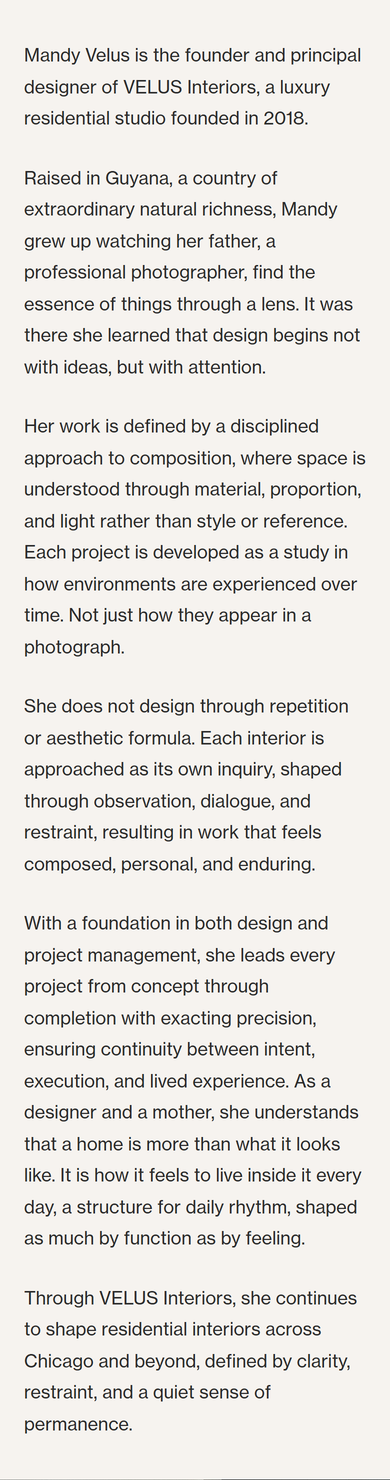
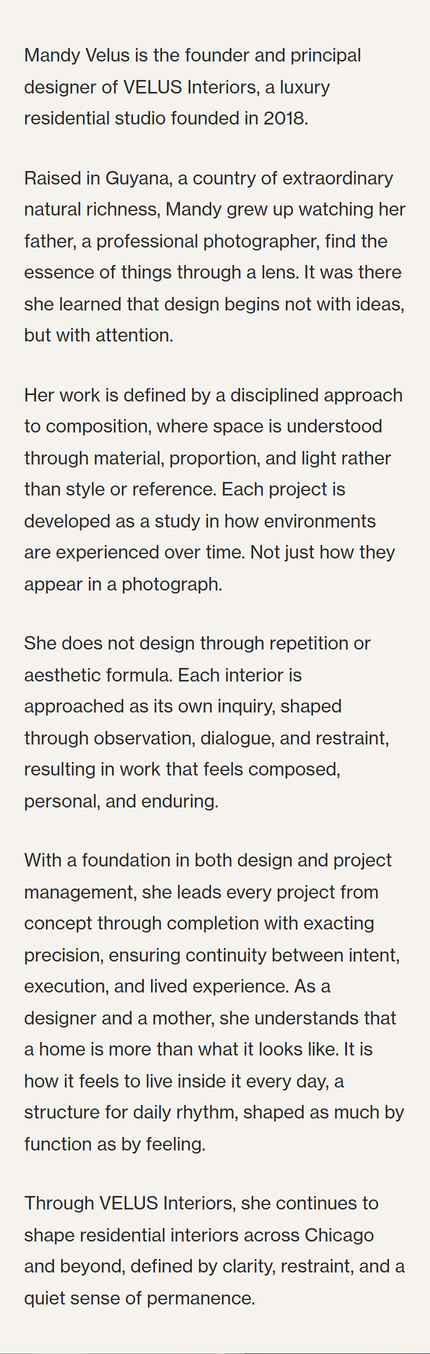
Mandy VeLUS: iterate v5 typography until each section visually matches her phone screenshots
Per-section adjustments (all mobile, viewport ~430 CSS px):
- Editorial (A study in restraint): swap image to IMG_4286_cropped (clean photo crop, was using a screenshot file containing duplicate text), force edge-to-edge on mobile, h3 22→24px with .01em letter-spacing, body 20→15px with .012em letter-spacing, padding 40→52px each side. Title now wraps at 2 lines and body at 3 lines per paragraph, matching her reference.
- Our Work: title h2 34→30px, body lede 20→17px with .01em letter-spacing, line-height 1.7→1.55. CTA 14→13px. Paragraph wraps now match her 4-paragraph layout.
- Our Process: titles 30→26px, body 19→16px, numbers 13px with .04em letter-spacing (was .32em causing "0 1" rendering). "Procurement and Coordination" now fits on one line.
- Reflection: blockquote 22→23px, padding 40→54px each side. Quote wraps to 4 lines centered.
- Velus Statement: h1 34→28px, white-space:nowrap so "VELUS INTERIORS" fits on one line.
- Service Dropdown: svc-num letter-spacing .2em→.04em so "01" renders tight.
- Fix em-dash in Valmont alt text per no-em-dash rule.

Capture tooling:
- VW env var on qa helpers; default to 430 (iPhone Pro Max width)
- Sharp extract math now respects VW

Changed region(s): [[0.0615, 0.031, 0.9538, 0.9926], [0.9231, 0.9306, 0.9538, 0.9616]]

diff --git a/Mandy_VeLUS_Design/v5.html b/Mandy_VeLUS_Design/v5.html
@@ -179,15 +179,15 @@ section.editorial .eyebrow{color:#2A1E1A;opacity:.75}
 section.editorial h3{font-family:var(--serif);font-size:clamp(24px,2.4vw,36px);font-weight:400;margin-top:22px;color:#2A1E1A;line-height:1.3}
 section.editorial p{margin-top:24px;font-size:clamp(8.4px,1.32vw,20.4px);line-height:1.85;color:#2A1E1A;opacity:.9;font-weight:300}
 section.editorial .img{align-self:stretch;width:100%;height:auto;margin:-120px 0;background-size:cover;background-position:center}
-@media(max-width:860px){section.editorial{padding:60px 40px}section.editorial .wrap{grid-template-columns:1fr;gap:50px}section.editorial h3{margin-top:0}section.editorial .img{aspect-ratio:4/5;align-self:auto;height:auto;margin:0 -30px;width:calc(100% + 60px)}}
+@media(max-width:860px){section.editorial{padding:60px 52px}section.editorial .wrap{grid-template-columns:1fr;gap:50px}section.editorial h3{margin-top:0}section.editorial .img{aspect-ratio:4/5;align-self:auto;height:auto;margin:0 -52px;width:calc(100% + 104px)}}
 
 /* TESTIMONIES */
 section.testimonies-section{padding:60px 0;background:#F6F3EF}
 .testimonies-head{max-width:720px;margin:0 auto 48px;padding:0 40px;text-align:center}
 .testimonies-head h2{font-family:var(--serif);font-weight:400;font-size:34px;letter-spacing:.18em;text-transform:uppercase;color:#1A1A1A;margin:0 0 20px;line-height:1.1}
 .testimonies-head .rule{margin:0 auto;width:48px;height:1px;background:#D0D0D0;border:0}
-.testimonies{max-width:640px;margin:0 auto;padding:0 40px;text-align:center}
-.testimonies blockquote{font-family:var(--serif);font-weight:400;font-size:22px;line-height:1.6;color:#1A1A1A;text-wrap:balance}
+.testimonies{max-width:640px;margin:0 auto;padding:0 54px;text-align:center}
+.testimonies blockquote{font-family:var(--serif);font-weight:400;font-size:23px;line-height:1.55;color:#1A1A1A}
 .testimonies .t-short,.testimonies .t-full{display:grid;transition:grid-template-rows .6s cubic-bezier(0.22,1,0.36,1),opacity .45s ease}
 .testimonies .t-short>.t-inner,.testimonies .t-full>.t-inner{overflow:hidden;min-height:0}
 .testimonies .t-short{grid-template-rows:1fr;opacity:1}
@@ -322,7 +322,7 @@ section.monogram + .svc-list{margin-top:0}
 .svc-item::before{content:"";position:absolute;top:0;left:17.5%;right:17.5%;height:1px;background:#D0D0D0}
 .svc-item:last-child::after{content:"";position:absolute;bottom:0;left:17.5%;right:17.5%;height:1px;background:#D0D0D0}
 .svc-trigger{width:100%;text-align:left;padding:32px 0;font-family:var(--serif);font-size:26px;font-weight:400;letter-spacing:.02em;color:var(--ink);cursor:pointer;display:flex;align-items:baseline;gap:28px}
-.svc-num{font-family:var(--body);font-size:14px;letter-spacing:.2em;opacity:.5;font-weight:400;flex-shrink:0}
+.svc-num{font-family:var(--body);font-size:14px;letter-spacing:.04em;opacity:.45;font-weight:400;flex-shrink:0}
 .svc-trigger::after{content:"+";margin-left:auto;font-family:var(--body);font-size:18px;font-weight:300;opacity:.55;line-height:1;transition:transform .4s ease,opacity .3s ease,content 0s}
 .svc-trigger:hover::after{opacity:.9}
 .svc-item.open .svc-trigger::after{content:"\2212";opacity:.9}
@@ -352,7 +352,7 @@ body.locked{overflow:hidden}
   .svc-head h1,
   .work-section .section-head .lede{white-space:normal}
   section.statement{text-align:left}
-  section.statement h1{font-size:34px;text-align:left;padding:0 24px;letter-spacing:.1em}
+  section.statement h1{font-size:28px;text-align:left;padding:0 24px;letter-spacing:.04em;white-space:nowrap}
   section.statement .body{max-width:600px;width:auto;margin:28px auto 0;padding:0 24px;text-align:left;font-size:20px;line-height:1.65;color:#2B2B2B}
   section.statement .body p{padding:0}
   section.statement .body p+p{margin-top:20px}
@@ -367,15 +367,16 @@ body.locked{overflow:hidden}
   .mbr{display:initial}
   .svc-body,
   .about-exit .s{font-size:14px}
-  .work-section .section-head .lede{font-size:20px;line-height:1.7;text-align:left;color:#2B2B2B;margin-top:24px;padding:0;max-width:none}
-  .work-section .section-foot .cta{font-size:15px;letter-spacing:.18em}
-  .p-num{font-size:15px;letter-spacing:.04em;margin-bottom:18px}
-  .p-title{font-size:30px;letter-spacing:.02em;margin-bottom:8px}
-  .p-desc{font-size:19px;line-height:1.6}
+  .work-section .section-head .lede{font-size:17px;line-height:1.55;text-align:left;color:#2B2B2B;margin-top:18px;padding:0;max-width:none;letter-spacing:.01em}
+  .work-section .section-head h2{font-size:30px;letter-spacing:.04em;margin:0 0 4px}
+  .work-section .section-foot .cta{font-size:13px;letter-spacing:.22em}
+  .p-num{font-size:13px;letter-spacing:.04em;margin-bottom:14px;opacity:.4}
+  .p-title{font-size:26px;letter-spacing:.005em;margin-bottom:8px;line-height:1.2}
+  .p-desc{font-size:16px;line-height:1.55}
   .svc-statement p{font-size:19px}
   .svc-head h1{padding:0 16px}
-  section.editorial h3{font-size:34px}
-  section.editorial p{font-size:20px;line-height:1.65}
+  section.editorial h3{font-size:24px;line-height:1.22;letter-spacing:.01em}
+  section.editorial p{font-size:15px;line-height:1.55;letter-spacing:.012em}
 
   /* SYMMETRIC SECTION PADDING ON MOBILE */
   section.monogram{padding:40px 24px 40px}
@@ -482,7 +483,7 @@ body.locked{overflow:hidden}
       <div class="work-img fu" data-project="7">
         <picture>
           <source media="(min-width:769px)" srcset="collectionsphotos/valmont-1.jpeg" />
-          <img src="collectionsphotos/valmont-1.jpeg" alt="Valmont Residence — Palm Beach, Florida" loading="lazy" />
+          <img src="collectionsphotos/valmont-1.jpeg" alt="Valmont Residence, Palm Beach, Florida" loading="lazy" />
         </picture>
       </div>
       <div class="work-img fu d1" data-project="5">
@@ -502,7 +503,7 @@ body.locked{overflow:hidden}
         <p class="fu d2">VELUS Interiors is committed to a disciplined approach to design, where intention guides every decision and excess is consistently removed in pursuit of clarity.</p>
         <p class="fu d2">The studio's work is grounded in three principles: spatial integrity, material precision, and considered restraint. This is not decoration. It is composition.</p>
       </div>
-      <div class="img fu d2" style="background-image:url('https://assets.cdn.filesafe.space/dYpRMKt41LMBrYEUoeLG/media/2e8700a6-2bba-4e34-8328-b594ddd6a0fb.jpeg')"></div>
+      <div class="img fu d2" style="background-image:url('collectionsphotos/IMG_4286_cropped.jpeg')"></div>
     </div>
   </section>
 

diff --git a/.claude/qa-mandy-batch-430.js b/.claude/qa-mandy-batch-430.js
@@ -1,0 +1,30 @@
+// Batch re-capture every Mandy comparison section at 430px viewport
+// (iPhone 14 Pro Max width) so wrapping matches her phone screenshots.
+const { spawnSync } = require('child_process');
+const path = require('path');
+
+const ROOT = path.resolve(__dirname, '..', 'Mandy_VeLUS_Design', 'comparisons');
+
+const TARGETS = [
+  // [selector, out-file, page-id]
+  ['section.testimonies-section', 'reflection-2026-04-23/image-one-real-mobile.png', 'page-home'],
+  ['section.statement', 'statement-2026-04-24/image-two-real-mobile.png', 'page-home'],
+  ['section.editorial', 'editorial-2026-04-24/image-three-real-mobile.png', 'page-home'],
+  ['.about-bio', 'about-2026-04-24/image-four-real-mobile.png', 'page-about'],
+  ['section.work-section', 'our-work-2026-04-24/image-five-real-mobile.png', 'page-home'],
+  ['.process-wrap', 'process-2026-04-24/image-six-real-mobile.png', 'page-services'],
+  ['.svc-list', 'service-dropdown-2026-04-24/image-seven-real-mobile.png', 'page-services'],
+  ['footer#site-footer', 'footer-2026-04-24/image-ten-real-mobile.png', 'page-home'],
+];
+
+for (const [sel, file, pg] of TARGETS) {
+  const out = path.join(ROOT, file);
+  console.log(`\n--- ${file} ---`);
+  const r = spawnSync('node', ['qa-mandy-section.js', sel, out, pg], {
+    cwd: __dirname,
+    env: { ...process.env, VW: '430' },
+    encoding: 'utf8',
+  });
+  process.stdout.write(r.stdout || '');
+  if (r.stderr) process.stderr.write(r.stderr);
+}

diff --git a/.claude/qa-debug-editorial.js b/.claude/qa-debug-editorial.js
@@ -1,0 +1,28 @@
+const puppeteer = require('puppeteer');
+const URL = 'file:///F:/GitHub/Websites/Mandy_VeLUS_Design/v5.html';
+(async () => {
+  const browser = await puppeteer.launch({ headless: 'new' });
+  const page = await browser.newPage();
+  await page.setViewport({ width: 430, height: 1400, deviceScaleFactor: 1 });
+  await page.goto(URL, { waitUntil: 'networkidle0' });
+  await new Promise(r => setTimeout(r, 700));
+  await page.evaluate(() => {
+    document.querySelectorAll('.fu').forEach(e => e.classList.add('in'));
+    const e = document.getElementById('entry'); if(e) e.style.display='none';
+  });
+  const info = await page.evaluate(() => {
+    // Grab every element near doc-y where the duplicate appears (~400-700px in viewport)
+    const editorial = document.querySelector('section.editorial');
+    const docY = editorial.getBoundingClientRect().top + window.scrollY;
+    const sections = Array.from(document.querySelectorAll('section, footer, header, main')).map(s => ({
+      tag: s.tagName,
+      cls: s.className || '',
+      docY: Math.round(s.getBoundingClientRect().top + window.scrollY),
+      h: Math.round(s.getBoundingClientRect().height),
+      visible: getComputedStyle(s).display !== 'none' && getComputedStyle(s).visibility !== 'hidden'
+    })).filter(s => s.visible && s.docY >= 0);
+    return { editorialDocY: docY, sections };
+  });
+  console.log(JSON.stringify(info, null, 2));
+  await browser.close();
+})();

diff --git a/.claude/qa-debug-fullsection.js b/.claude/qa-debug-fullsection.js
@@ -1,0 +1,20 @@
+const puppeteer = require('puppeteer');
+const URL = 'file:///F:/GitHub/Websites/Mandy_VeLUS_Design/v5.html';
+(async () => {
+  const browser = await puppeteer.launch({ headless: 'new' });
+  const page = await browser.newPage();
+  await page.setViewport({ width: 430, height: 1400, deviceScaleFactor: 1 });
+  await page.goto(URL, { waitUntil: 'networkidle0' });
+  await new Promise(r => setTimeout(r, 700));
+  await page.evaluate(() => {
+    document.querySelectorAll('.fu').forEach(e => e.classList.add('in'));
+    const e = document.getElementById('entry'); if(e) e.style.display='none';
+    const home = document.getElementById('page-home'); if(home) home.classList.add('active');
+  });
+  await new Promise(r => setTimeout(r, 400));
+  // Full page screenshot, no extract
+  await page.screenshot({ path: 'F:/GitHub/Websites/.claude/screenshots/debug-fullpage.png', fullPage: true });
+  const dims = await page.evaluate(() => ({ docH: document.body.scrollHeight, vpH: window.innerHeight }));
+  console.log('docH', dims.docH, 'vpH', dims.vpH);
+  await browser.close();
+})();

diff --git a/.claude/qa-debug-fullpage.js b/.claude/qa-debug-fullpage.js
@@ -1,0 +1,20 @@
+const puppeteer = require('puppeteer');
+const URL = 'file:///F:/GitHub/Websites/Mandy_VeLUS_Design/v5.html';
+(async () => {
+  const browser = await puppeteer.launch({ headless: 'new' });
+  const page = await browser.newPage();
+  await page.setViewport({ width: 430, height: 844, deviceScaleFactor: 1 });
+  await page.goto(URL, { waitUntil: 'networkidle0' });
+  await new Promise(r => setTimeout(r, 700));
+  await page.evaluate(() => {
+    document.querySelectorAll('.fu').forEach(e => e.classList.add('in'));
+    const e = document.getElementById('entry'); if(e) e.style.display='none';
+    const home = document.getElementById('page-home'); if(home) home.classList.add('active');
+    document.querySelector('section.editorial').scrollIntoView({block:'start'});
+    window.scrollBy(0, -100);
+  });
+  await new Promise(r => setTimeout(r, 400));
+  await page.screenshot({ path: 'F:/GitHub/Websites/.claude/screenshots/debug-editorial.png', fullPage: false });
+  console.log('saved');
+  await browser.close();
+})();

diff --git a/.claude/qa-mandy-section.js b/.claude/qa-mandy-section.js
@@ -18,7 +18,8 @@ if (!SELECTOR || !OUT_PATH) {
 (async () => {
   const browser = await puppeteer.launch({ headless: 'new' });
   const page = await browser.newPage();
-  await page.setViewport({ width: 390, height: 1400, deviceScaleFactor: 2 });
+  const VW = parseInt(process.env.VW || '430', 10);
+  await page.setViewport({ width: VW, height: 1400, deviceScaleFactor: 2 });
   await page.goto(URL, { waitUntil: 'networkidle0' });
   await new Promise(r => setTimeout(r, 700));
 
@@ -69,13 +70,13 @@ if (!SELECTOR || !OUT_PATH) {
     .extract({
       left: 0,
       top: Math.round(rect.top * 2),
-      width: 390 * 2,
+      width: VW * 2,
       height: Math.ceil(rect.height * 2)
     })
-    .resize({ width: 390 })
+    .resize({ width: VW })
     .toFile(OUT_PATH);
   fs.unlinkSync(fullPath);
 
-  console.log(`saved ${path.basename(OUT_PATH)} (390 x ${Math.ceil(rect.height)})`);
+  console.log(`saved ${path.basename(OUT_PATH)} (${VW} x ${Math.ceil(rect.height)})`);
   await browser.close();
 })();

diff --git a/.claude/qa-mandy-entry.js b/.claude/qa-mandy-entry.js
@@ -10,7 +10,8 @@ if (!fs.existsSync(OUT_DIR)) fs.mkdirSync(OUT_DIR, { recursive: true });
 (async () => {
   const browser = await puppeteer.launch({ headless: 'new' });
   const page = await browser.newPage();
-  await page.setViewport({ width: 390, height: 844, deviceScaleFactor: 2 });
+  const VW = parseInt(process.env.VW || '430', 10);
+  await page.setViewport({ width: VW, height: 844, deviceScaleFactor: 2 });
   await page.goto(URL, { waitUntil: 'domcontentloaded' });
   // Wait for SVG fade-in (.in class added at ~120ms)
   await new Promise(r => setTimeout(r, 800));

diff --git a/.claude/qa-mandy-viewer.js b/.claude/qa-mandy-viewer.js
@@ -10,7 +10,8 @@ if (!fs.existsSync(OUT_DIR)) fs.mkdirSync(OUT_DIR, { recursive: true });
 (async () => {
   const browser = await puppeteer.launch({ headless: 'new' });
   const page = await browser.newPage();
-  await page.setViewport({ width: 390, height: 844, deviceScaleFactor: 2 });
+  const VW = parseInt(process.env.VW || '430', 10);
+  await page.setViewport({ width: VW, height: 844, deviceScaleFactor: 2 });
   await page.goto(URL, { waitUntil: 'networkidle0' });
   await new Promise(r => setTimeout(r, 700));
 

diff --git a/.claude/qa-mandy-collections.js b/.claude/qa-mandy-collections.js
@@ -10,7 +10,8 @@ const TILE_INDEX = parseInt(process.argv[3] || '0', 10);
 (async () => {
   const browser = await puppeteer.launch({ headless: 'new' });
   const page = await browser.newPage();
-  await page.setViewport({ width: 390, height: 844, deviceScaleFactor: 2 });
+  const VW = parseInt(process.env.VW || '430', 10);
+  await page.setViewport({ width: VW, height: 844, deviceScaleFactor: 2 });
   await page.goto(URL, { waitUntil: 'networkidle0' });
   await new Promise(r => setTimeout(r, 700));
 
